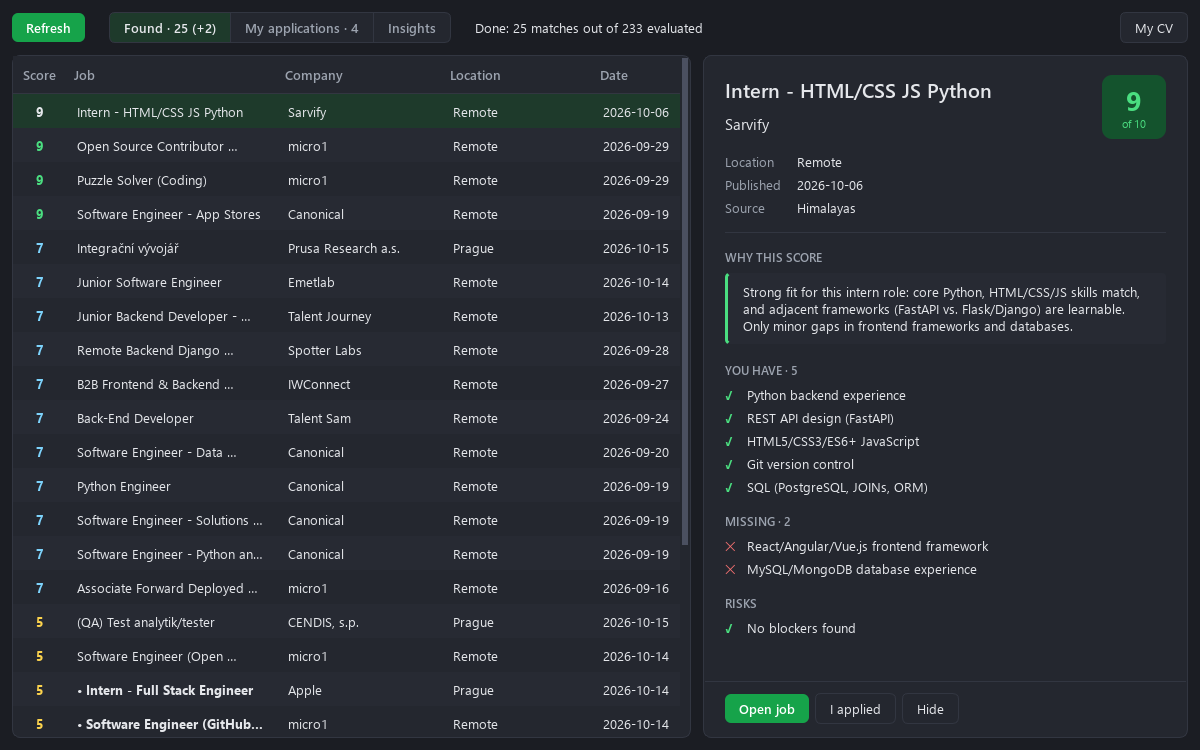
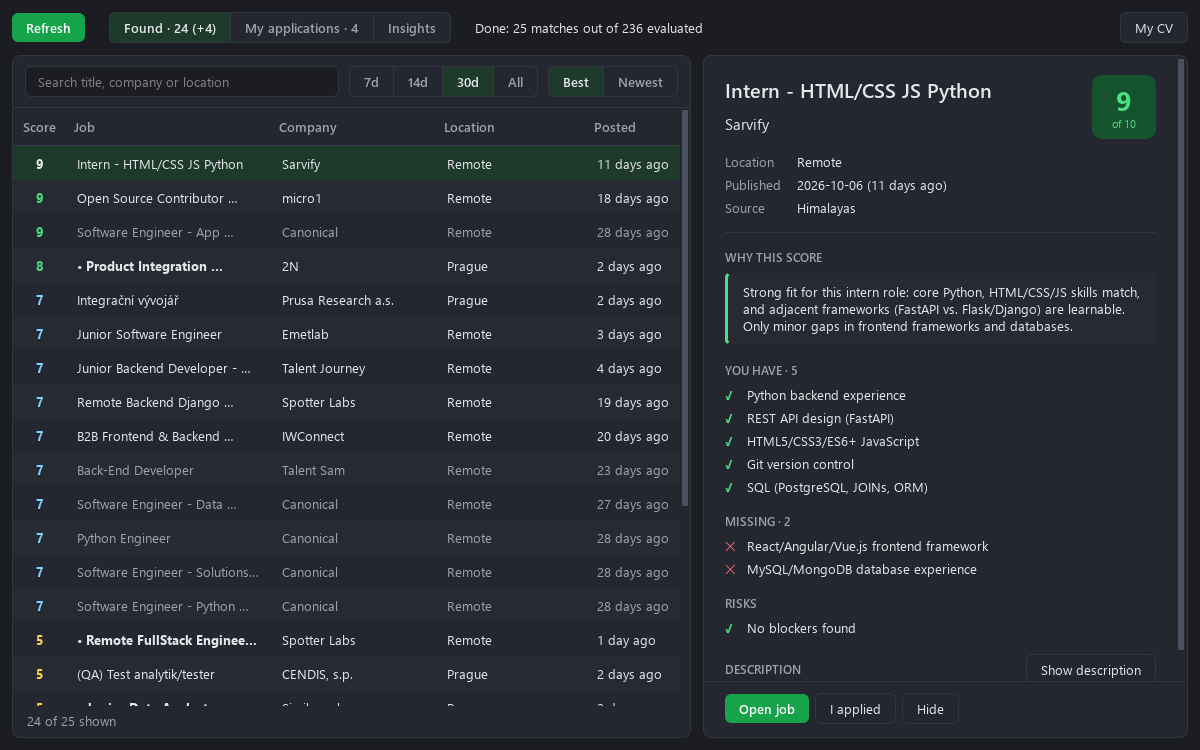
Document freshness features

diff --git a/docs/how-it-works.ru.md b/docs/how-it-works.ru.md
@@ -61,7 +61,7 @@
 
 | Что | Зачем |
 |---|---|
-| `tests/` | Автоматические проверки (92 штуки). Запуск: `.venv\Scripts\python -m pytest tests -q`. |
+| `tests/` | Автоматические проверки (119 штук). Запуск: `.venv\Scripts\python -m pytest tests -q`. |
 | `install.ps1` | Установка: создаёт виртуальное окружение, ставит библиотеки, кладёт ярлык на рабочий стол. |
 | `docs/superpowers/` | Спецификация и планы — как мы проектировали приложение (история решений). |
 | `master_cv.md` | Твоё резюме. **Не попадает в git** (в `.gitignore`). |
@@ -123,7 +123,12 @@
 
 - **Refresh** — запустить обновление вручную (оно и так запускается при открытии окна).
 - **Found** — подходящие вакансии (оценка ≥ 5). «•» и жирный шрифт — новые с прошлого раза,
-  «↻» — ты уже подавался на такую же вакансию.
+  «↻» — ты уже подавался на такую же вакансию. Колонка **Posted** — сколько дней вакансии;
+  старше 21 дня — серым. «reposted» — сайт «освежил» старую вакансию: обновил дату или выложил её
+  заново, а приложение видело её раньше (возраст считается по первому появлению).
+- **Над списком** — поиск по названию, компании и месту, фильтр свежести **7d / 14d / 30d / All**
+  (по умолчанию 30 дней) и порядок **Best / Newest**. Если фильтр что-то скрыл, внизу написано
+  «24 of 25 shown». Фильтры только прячут строки, базу и оценки не трогают.
 - **My applications** — твои отклики: нажал **I applied** на вакансии → она переехала сюда. Потом
   отмечаешь **Accepted / Rejected**, пишешь заметки. Если ответа нет больше 14 дней — янтарная
   подсказка «пора напомнить о себе».
@@ -131,7 +136,13 @@
   чаще всего требуют.
 - **My CV** — посмотреть резюме, по которому идёт оценка, и какие навыки из него взяты для отсева.
 - Справа — **карточка** выбранной вакансии: оценка, почему такая, что есть, чего не хватает, риски,
-  кнопки **Open job**, **I applied**, **Hide**.
+  описание вакансии (кнопка **Show description**), кнопки **Open job**, **I applied**, **Hide**.
+- Нажал **Hide** по ошибке — 10 секунд внизу висит плашка с кнопкой **Undo**.
+- Во время оценки в строке состояния видно, сколько примерно осталось (`~25 min left`). Если
+  закрыть окно посреди обновления, приложение спросит, точно ли закрыть (уже оценённое сохранено).
+- В откликах «⊘» и серая строка «probably filled» — вакансия пропала с сайта, который отдаёт свой
+  список целиком (junior.guru, Jobicy). У Himalayas и Working Nomads такой пометки нет: они отдают
+  только последние вакансии, и пропажа там ничего не значит.
 
 ---
 
@@ -156,7 +167,9 @@
 
 Всё в одном файле **`jobs.db`** (база SQLite) в папке проекта. Это одна таблица `jobs`, одна строка —
 одна вакансия: ссылка, название, компания, место, описание, оценка, разбор модели (JSON), ключ оценки,
-статус отклика, дата отклика, заметка, флаги «скрыта» и «просмотрена».
+статус отклика, дата отклика, заметка, флаги «скрыта» и «просмотрена» и `first_seen` — когда приложение
+впервые увидело эту вакансию (или такую же: та же компания и название). По ней ловятся «освежённые»
+старые вакансии.
 
 Посмотреть базу глазами можно программой **DB Browser for SQLite** (бесплатная). Если что-то пойдёт
 не так, базу можно просто удалить — приложение создаст новую и всё скачает и оценит заново (но
@@ -171,6 +184,7 @@
 | Обновить резюме или добавить новый навык | Поправить `master_cv.md` (раздел `## Skills` — по одной группе навыков на строку). При следующем Refresh всё переоценится. |
 | Видеть больше или меньше вакансий | `MIN_SCORE` в `config.py` (сейчас 5). Переоценка не нужна. |
 | Чтобы подсказка «пора напомнить» появлялась раньше или позже | `STALE_DAYS` в `config.py` (сейчас 14). |
+| Чтобы старые вакансии серели раньше или позже | `STALE_JOB_DAYS` в `config.py` (сейчас 21). |
 | Искать не в Праге / не только Python | Параметры сайтов в `config.py` (`HIMALAYAS_PARAMS`, `JOBICY_PARAMS`) и фильтр Праги для junior.guru в `sources.py`. |
 | Чтобы модель оценивала строже или мягче | Текст `RULES` в `llm.py`. После правки — полная переоценка. |
 | Другую модель | `MODEL` в `config.py` + скачать её в LM Studio (`lms get …`). |

diff --git a/README.md b/README.md
@@ -17,6 +17,9 @@ my CV, and asks a local AI model to score the rest from 1 to 10 and explain the 
 - Scores the rest with a model running in LM Studio on my own graphics card. For each job I get a
   score, a short reason, what I already have, what's missing and what could rule me out.
 - Shows jobs with a score of 5 or more, best first. Jobs that are new since last time are marked.
+- Shows how old each job really is. Job sites like to bump old listings so they look new, so the app
+  remembers when it first saw a job and marks those as "reposted". There's a search box, a
+  7 / 14 / 30 days filter and a "newest first" order above the list.
 - Keeps track of where I applied. One click moves a job to My applications, where I can mark it
   accepted or rejected, write notes and see how long I've been waiting for an answer.
 - The Insights tab counts what I'm missing most often across all jobs. Handy for deciding what to
